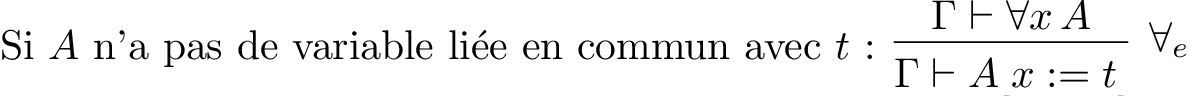
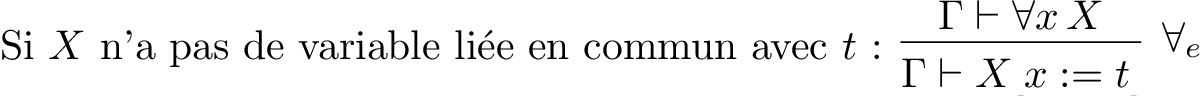
feat: update modal placeholders and formula templates to use variable 'X' and 'Y' for consistency

diff --git a/src/components/RuleTree.tsx b/src/components/RuleTree.tsx
@@ -35,8 +35,8 @@ export const RuleTree: React.FC<RuleTreeProps> = ({ premises, conclusion, ruleNa
 // Predefined rule displays using LaTeX
 export const ImplIntroRule: React.FC = () => (
   <RuleTree
-    premises={[<Latex key="p" math="[A]^1 \vdots B" />]}
-    conclusion={<Latex math="A \to B" />}
+    premises={[<Latex key="p" math="[X]^1 \vdots Y" />]}
+    conclusion={<Latex math="X \to Y" />}
     ruleName="→I"
     discharged="1"
   />
@@ -44,48 +44,48 @@ export const ImplIntroRule: React.FC = () => (
 
 export const ImplElimRule: React.FC = () => (
   <RuleTree
-    premises={[<Latex key="p1" math="A \to B" />, <Latex key="p2" math="A" />]}
-    conclusion={<Latex math="B" />}
+    premises={[<Latex key="p1" math="X \to Y" />, <Latex key="p2" math="X" />]}
+    conclusion={<Latex math="Y" />}
     ruleName="→E"
   />
 );
 
 export const AndIntroRule: React.FC = () => (
   <RuleTree
-    premises={[<Latex key="p1" math="A" />, <Latex key="p2" math="B" />]}
-    conclusion={<Latex math="A \land B" />}
+    premises={[<Latex key="p1" math="X" />, <Latex key="p2" math="Y" />]}
+    conclusion={<Latex math="X \land Y" />}
     ruleName="∧I"
   />
 );
 
 export const AndElimLeftRule: React.FC = () => (
   <RuleTree
-    premises={[<Latex key="p" math="A \land B" />]}
-    conclusion={<Latex math="A" />}
+    premises={[<Latex key="p" math="X \land Y" />]}
+    conclusion={<Latex math="X" />}
     ruleName="∧E₁"
   />
 );
 
 export const AndElimRightRule: React.FC = () => (
   <RuleTree
-    premises={[<Latex key="p" math="A \land B" />]}
-    conclusion={<Latex math="B" />}
+    premises={[<Latex key="p" math="X \land Y" />]}
+    conclusion={<Latex math="Y" />}
     ruleName="∧E₂"
   />
 );
 
 export const OrIntroLeftRule: React.FC = () => (
   <RuleTree
-    premises={[<Latex key="p" math="A" />]}
-    conclusion={<Latex math="A \lor B" />}
+    premises={[<Latex key="p" math="X" />]}
+    conclusion={<Latex math="X \lor Y" />}
     ruleName="∨I₁"
   />
 );
 
 export const OrIntroRightRule: React.FC = () => (
   <RuleTree
-    premises={[<Latex key="p" math="B" />]}
-    conclusion={<Latex math="A \lor B" />}
+    premises={[<Latex key="p" math="Y" />]}
+    conclusion={<Latex math="X \lor Y" />}
     ruleName="∨I₂"
   />
 );
@@ -93,11 +93,11 @@ export const OrIntroRightRule: React.FC = () => (
 export const OrElimRule: React.FC = () => (
   <RuleTree
     premises={[
-      <Latex key="p1" math="A \lor B" />,
-      <Latex key="p2" math="[A]^1 \vdots C" />,
-      <Latex key="p3" math="[B]^2 \vdots C" />
+      <Latex key="p1" math="X \lor Y" />,
+      <Latex key="p2" math="[X]^1 \vdots Z" />,
+      <Latex key="p3" math="[Y]^2 \vdots Z" />
     ]}
-    conclusion={<Latex math="C" />}
+    conclusion={<Latex math="Z" />}
     ruleName="∨E"
     discharged="1,2"
   />
@@ -105,8 +105,8 @@ export const OrElimRule: React.FC = () => (
 
 export const NegIntroRule: React.FC = () => (
   <RuleTree
-    premises={[<Latex key="p" math="[A]^1 \vdots \bot" />]}
-    conclusion={<Latex math="\neg A" />}
+    premises={[<Latex key="p" math="[X]^1 \vdots \bot" />]}
+    conclusion={<Latex math="\neg X" />}
     ruleName="¬I"
     discharged="1"
   />
@@ -114,7 +114,7 @@ export const NegIntroRule: React.FC = () => (
 
 export const NegElimRule: React.FC = () => (
   <RuleTree
-    premises={[<Latex key="p1" math="A" />, <Latex key="p2" math="\neg A" />]}
+    premises={[<Latex key="p1" math="X" />, <Latex key="p2" math="\neg X" />]}
     conclusion={<Latex math="\bot" />}
     ruleName="¬E"
   />
@@ -123,15 +123,15 @@ export const NegElimRule: React.FC = () => (
 export const AbsurdRule: React.FC = () => (
   <RuleTree
     premises={[<Latex key="p" math="\bot" />]}
-    conclusion={<Latex math="A" />}
+    conclusion={<Latex math="X" />}
     ruleName="⊥E"
   />
 );
 
 export const raaRule: React.FC = () => (
   <RuleTree
-    premises={[<Latex key="p" math="[\neg A]^1 \vdots \bot" />]}
-    conclusion={<Latex math="A" />}
+    premises={[<Latex key="p" math="[\neg X]^1 \vdots \bot" />]}
+    conclusion={<Latex math="X" />}
     ruleName="raa"
     discharged="1"
   />
@@ -140,7 +140,7 @@ export const raaRule: React.FC = () => (
 export const AxiomRule: React.FC = () => (
   <RuleTree
     premises={[]}
-    conclusion={<Latex math="A \in \Gamma" />}
+    conclusion={<Latex math="X \in \Gamma" />}
     ruleName="Ax"
   />
 );

diff --git a/src/App.tsx b/src/App.tsx
@@ -366,9 +366,9 @@ const App: React.FC = () => {
       
       case 'impl-elim':
         setModalState({
-          placeholder: `A -> (${node.sequent.goal.toDisplayString()})`,
-          formulaTemplate: `({A}) -> (${node.sequent.goal.toDisplayString()})`,
-          variableNames: ['A'],
+          placeholder: `X -> (${node.sequent.goal.toDisplayString()})`,
+          formulaTemplate: `({X}) -> (${node.sequent.goal.toDisplayString()})`,
+          variableNames: ['X'],
           action: 'impl-elim'
         });
         return;
@@ -379,18 +379,18 @@ const App: React.FC = () => {
       
       case 'and-elim-left':
         setModalState({
-          placeholder: `(${node.sequent.goal.toDisplayString()}) & B`,
-          formulaTemplate: `(${node.sequent.goal.toDisplayString()}) & ({B})`,
-          variableNames: ['B'],
+          placeholder: `(${node.sequent.goal.toDisplayString()}) & Y`,
+          formulaTemplate: `(${node.sequent.goal.toDisplayString()}) & ({Y})`,
+          variableNames: ['Y'],
           action: 'and-elim-left'
         });
         return;
       
       case 'and-elim-right':
         setModalState({
-          placeholder: `A & (${node.sequent.goal.toDisplayString()})`,
-          formulaTemplate: `({A}) & (${node.sequent.goal.toDisplayString()})`,
-          variableNames: ['A'],
+          placeholder: `X & (${node.sequent.goal.toDisplayString()})`,
+          formulaTemplate: `({X}) & (${node.sequent.goal.toDisplayString()})`,
+          variableNames: ['X'],
           action: 'and-elim-right'
         });
         return;
@@ -405,9 +405,9 @@ const App: React.FC = () => {
       
       case 'or-elim':
         setModalState({
-          placeholder: 'A | B',
-          formulaTemplate: '{A} | {B}',
-          variableNames: ['A', 'B'],
+          placeholder: 'X | Y',
+          formulaTemplate: '{X} | {Y}',
+          variableNames: ['X', 'Y'],
           action: 'or-elim'
         });
         return;
@@ -422,9 +422,9 @@ const App: React.FC = () => {
           return;
         }
         setModalState({
-          placeholder: 'A',
-          formulaTemplate: '{A}',
-          variableNames: ['A'],
+          placeholder: 'X',
+          formulaTemplate: '{X}',
+          variableNames: ['X'],
           action: 'neg-elim'
         });
         return;

diff --git a/src/ruleLabels.ts b/src/ruleLabels.ts
@@ -109,7 +109,7 @@ const panelRuleVisualByRule: Record<PanelRuleName, Pick<PanelRuleUi, 'imageSrc' 
   'or-elim': { imageSrc: 'assets/rules/or_elim.png', widthPct: 100 },
   'neg-intro': { imageSrc: 'assets/rules/neg_intro.png', widthPct: 46 },
   'neg-elim': { imageSrc: 'assets/rules/neg_elim.png', widthPct: 77 },
-  'absurd': { imageSrc: 'assets/rules/bot_elim.png', widthPct: 37 },
+  'absurd': { imageSrc: 'assets/rules/bot_elim.png', widthPct: 39 },
   'raa': { imageSrc: 'assets/rules/raa.png', widthPct: 56 },
   'axiom': { imageSrc: 'assets/rules/axiom.png', widthPct: 46 }
 };
